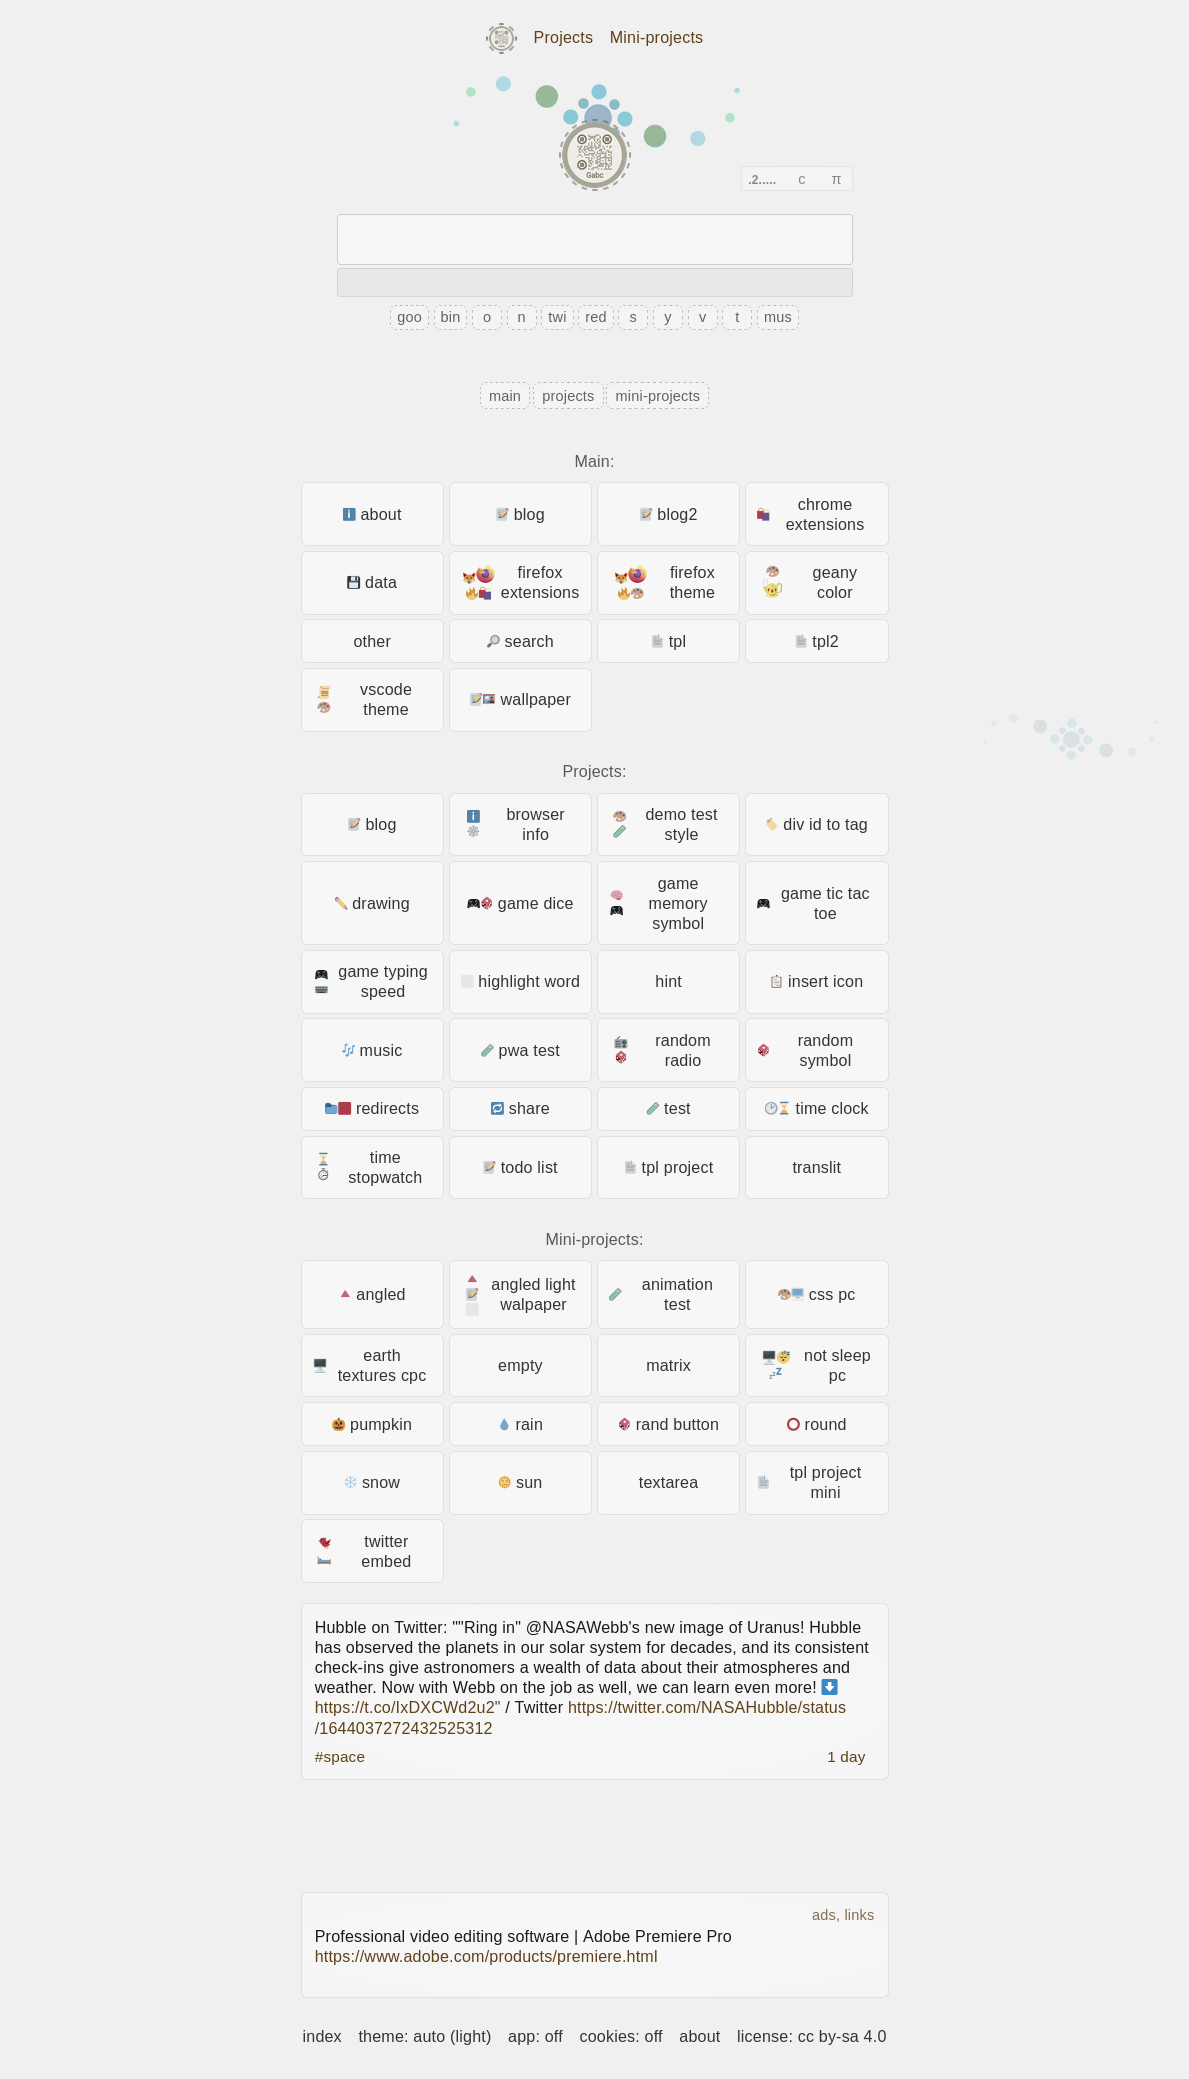
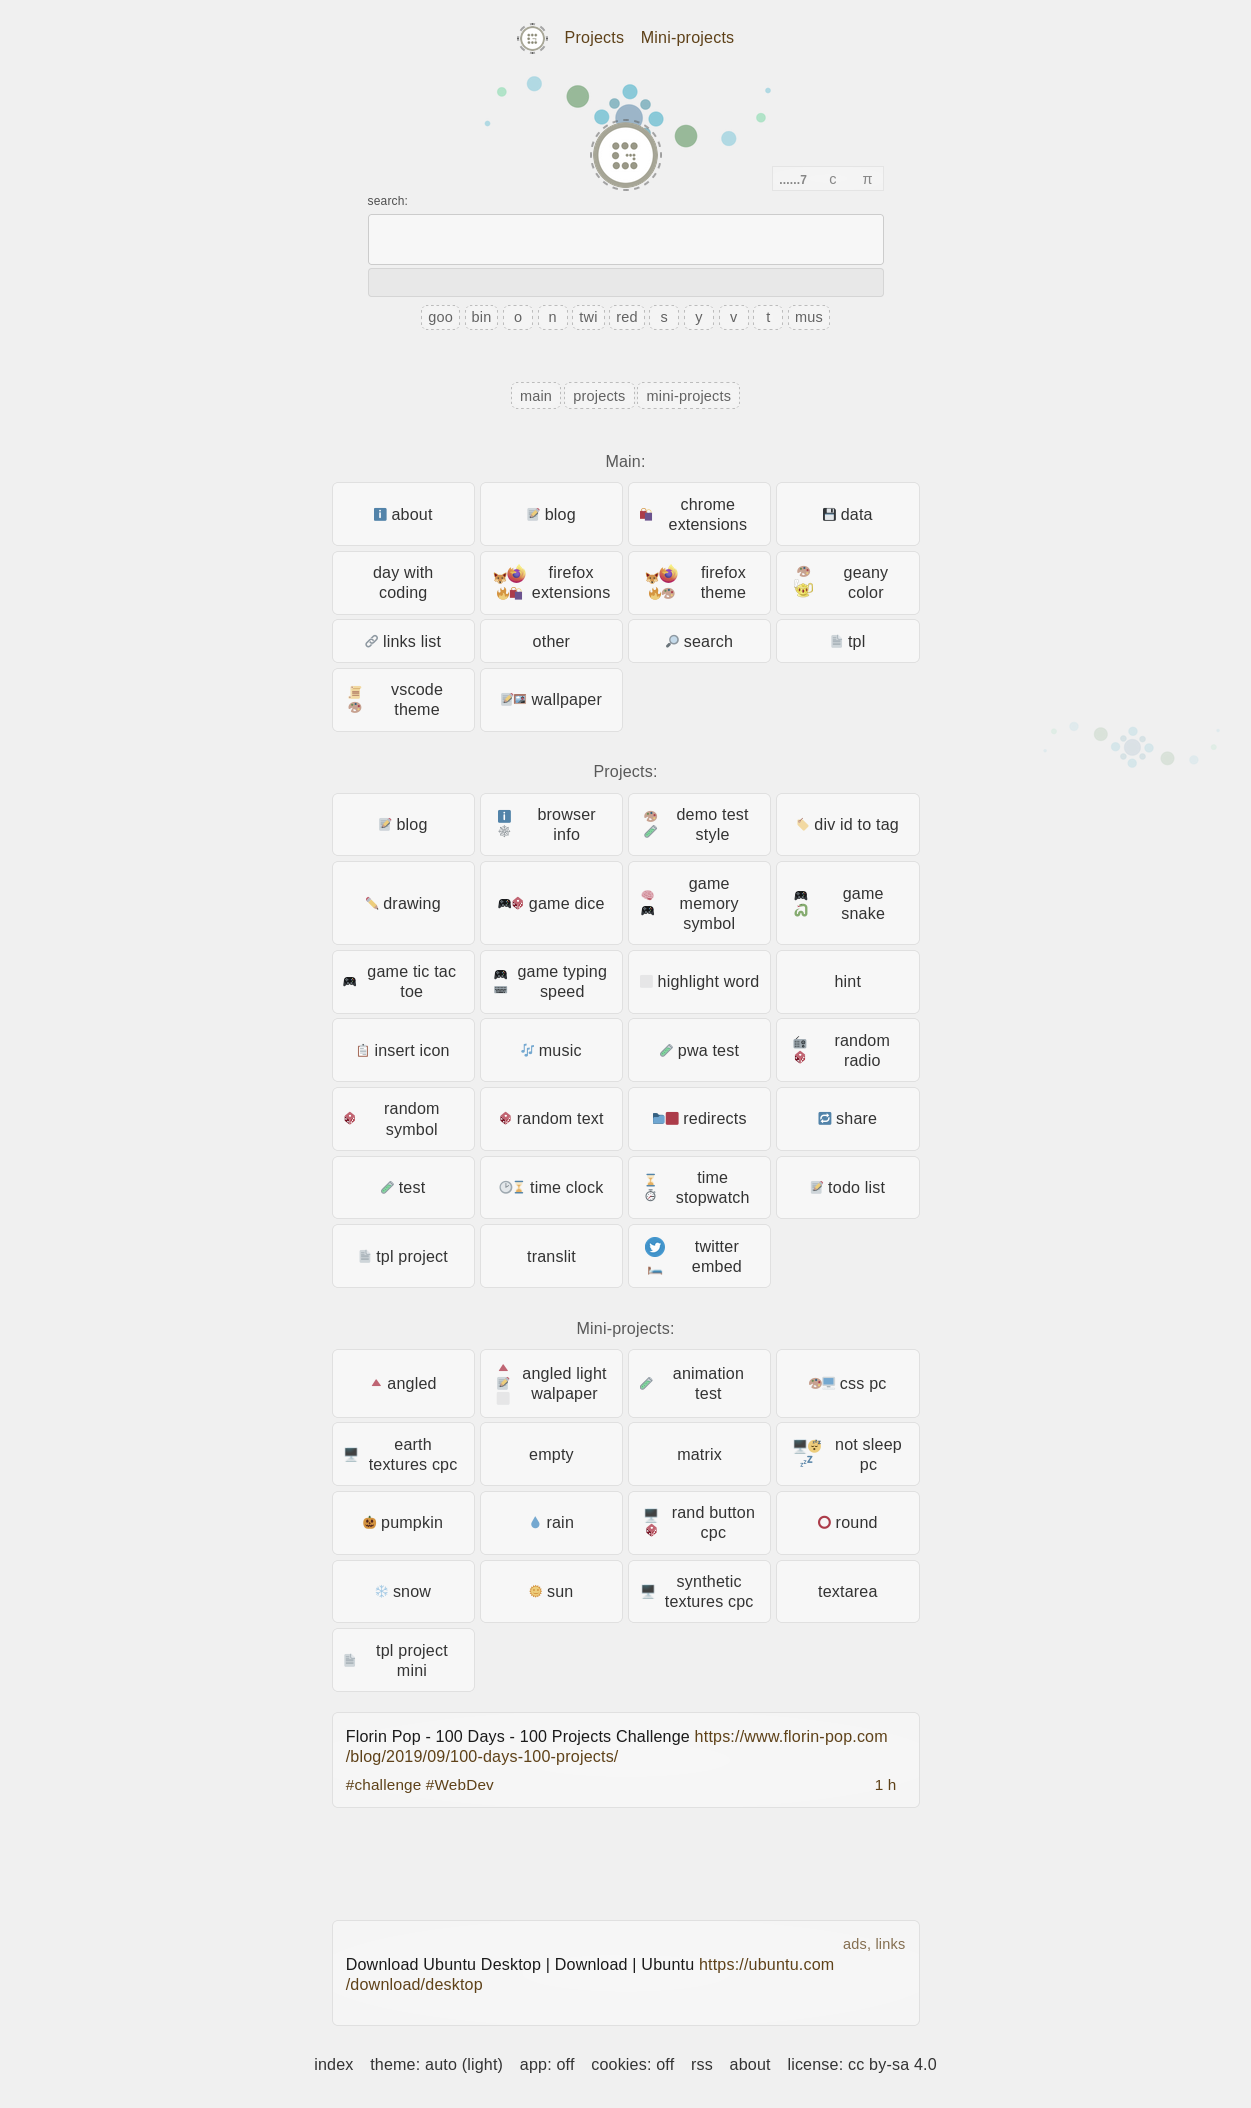
update

diff --git a/data/blogJsonVar.js b/data/blogJsonVar.js
@@ -1,6 +1,20 @@
 var blogJsonVar = 
 [
     {
+        "id": "49",
+        "text": "Dribbble - Discover the World\u2019s Top Designers & Creative Professionals",
+        "url": "https:\/\/dribbble.com\/",
+        "tag": "#bookmark #WebDesign #inspiration",
+        "time": 1682255508
+    },
+    {
+        "id": "48",
+        "text": "Siteinspire | Web Design Inspiration",
+        "url": "https:\/\/www.siteinspire.com\/",
+        "tag": "#bookmark #WebDesign #inspiration",
+        "time": 1682255276
+    },
+    {
         "id": "47",
         "text": "Florin Pop - 100 Days - 100 Projects Challenge",
         "url": "https:\/\/www.florin-pop.com\/blog\/2019\/09\/100-days-100-projects\/",

diff --git a/about.html b/about.html
@@ -159,9 +159,14 @@ Home Page and Others Projects. I'm trying to learn  English and JavaScript, writ
 </span>
 
 
+<!--
+<span class="block padding bg3 border4 margin">
+<span id="screenshot" class="block padding margin op bold">Screenshot:</span>
 
+<a href="/img/screenshot.png"><img src="/img/screenshot.png" alt="website screenshot"></a>
 
-
+</span>
+-->
 
 
 

diff --git a/projects/test/style.css b/projects/test/style.css
@@ -7,7 +7,6 @@ overflow:   scroll;
 scrollbar-width: 3px;
 }
 
-::-webkit-scrollbar {
-  width: 3px;
-
-}
+/*::-webkit-scrollbar {
+width: 3px;
+}*/

diff --git a/vscode-theme/README.md b/vscode-theme/README.md
@@ -3,8 +3,8 @@ README.md
 # VSCode Theme
 
 #### Screenshot Light
-![screenshot](https://raw.githubusercontent.com/gabc123123/gabc123123.github.io/main/vscode-theme/screenshot-light.png)
+![screenshot](https://raw.githubusercontent.com/gabc22/gabc22.github.io/main/vscode-theme/screenshot-light.png)
 
 #### Screenshot Dark
-![screenshot](https://raw.githubusercontent.com/gabc123123/gabc123123.github.io/main/vscode-theme/screenshot-dark.png)
+![screenshot](https://raw.githubusercontent.com/gabc22/gabc22.github.io/main/vscode-theme/screenshot-dark.png)
 
